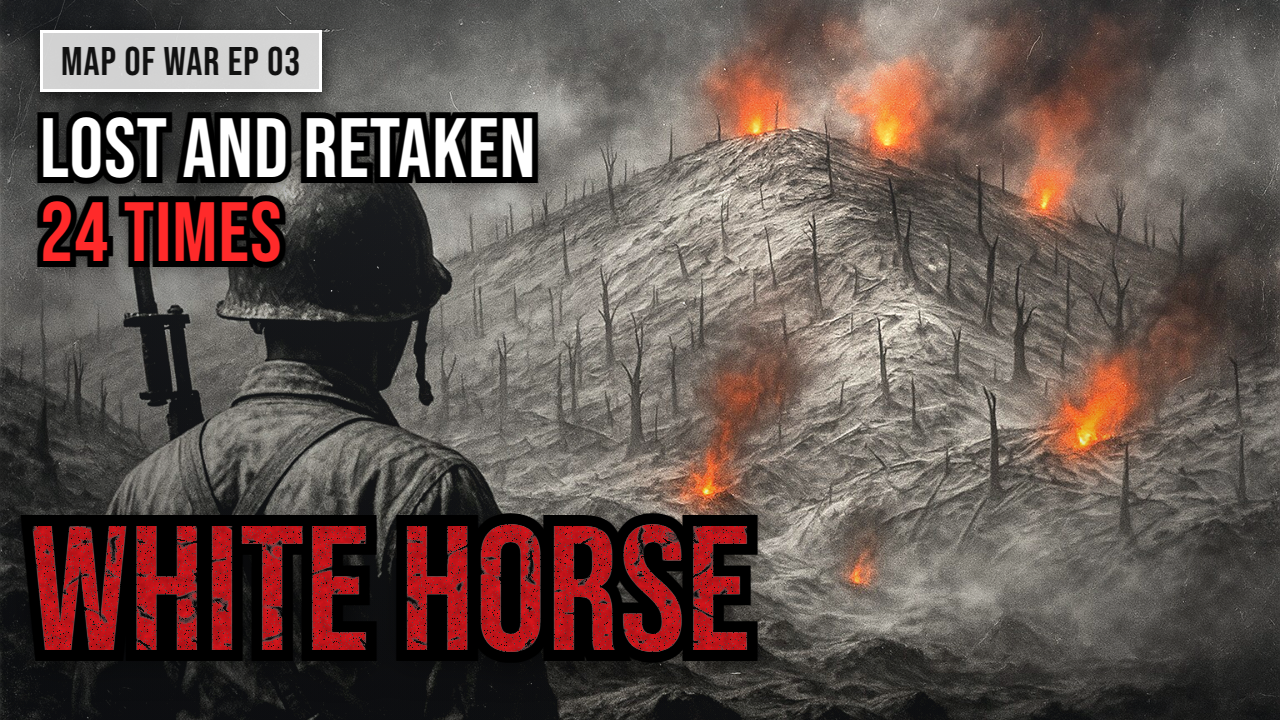
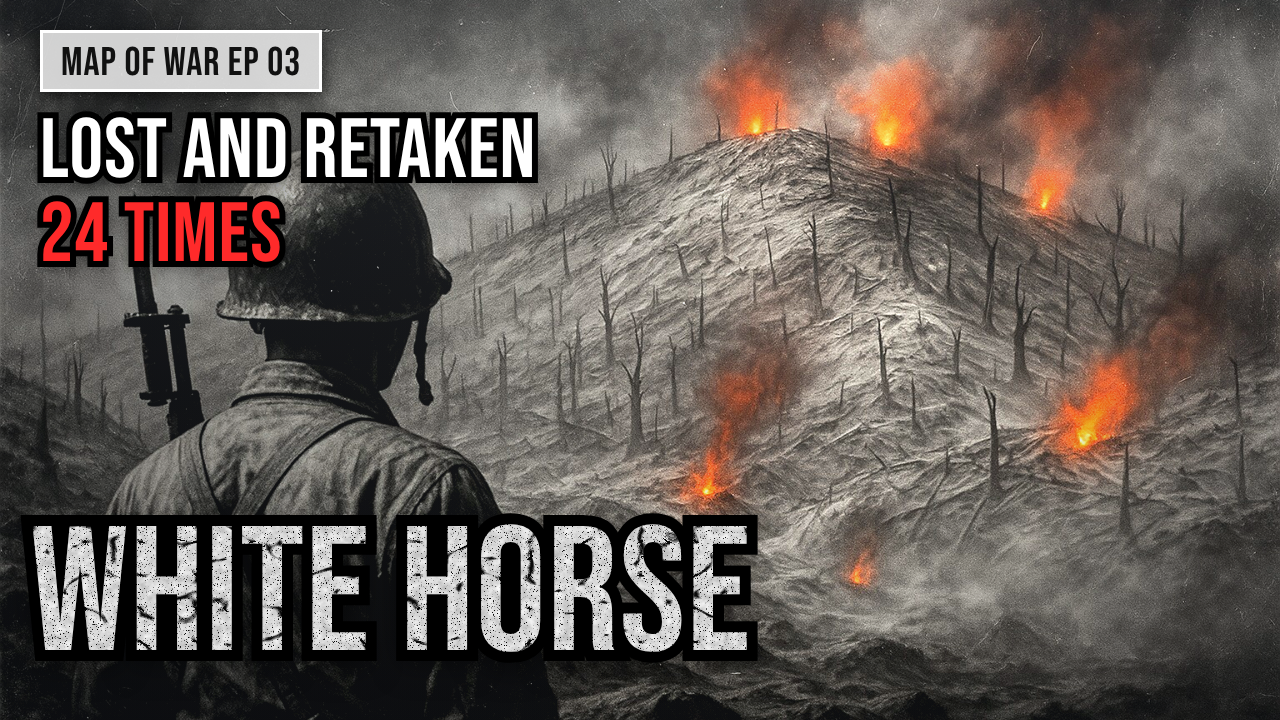
영문 썸네일: 빨강 키워드 → 옐로/스톤 (가독성 규칙 영문판에도 적용)
Claude-Session: https://claude.ai/code/session_01KBUYY64NPWkAFAfkw5mnrv

Changed region(s): [[0.3125, 0.7333, 0.5938, 0.9167], [0.0, 0.7333, 0.2812, 0.9167], [0.1562, 0.3056, 0.1875, 0.3361]]

diff --git a/remotion/Thumbnail.tsx b/remotion/Thumbnail.tsx
@@ -258,11 +258,11 @@ const SEG_COLOR = { w: "#ffffff", s: "#8fd6ff", r: "#ff2a2a" };
 type RefDef = { ep: string; mid: Seg[][]; key: string; keyStyle: "red" | "stone" | "yellow" | "ice"; pos?: string };
 /** 영문판(EN) — 압축 영문 공식: 'Battle of' 제외, 지명 + 숫자/핵심 단어만, Bebas Neue */
 const REF_EN: Record<string, RefDef> = {
-  yongmunsan: { ep: "01", mid: [[["1 REGIMENT", "s"], [" DESTROYED", "w"]], [["3 DIVISIONS", "r"]]], key: "YONGMUNSAN", keyStyle: "red" },
+  yongmunsan: { ep: "01", mid: [[["1 REGIMENT", "s"], [" DESTROYED", "w"]], [["3 DIVISIONS", "r"]]], key: "YONGMUNSAN", keyStyle: "yellow" },
   dabudong: { ep: "02", mid: [[["STAND OR DIE:", "r"]], [["55 DAYS OF HELL", "s"]]], key: "TABU-DONG", keyStyle: "stone" },
-  baengma: { ep: "03", mid: [[["LOST AND RETAKEN", "w"]], [["24 TIMES", "r"]]], key: "WHITE HORSE", keyStyle: "red" },
+  baengma: { ep: "03", mid: [[["LOST AND RETAKEN", "w"]], [["24 TIMES", "r"]]], key: "WHITE HORSE", keyStyle: "stone" },
   jipyeong: { ep: "04", mid: [[["360° SURROUNDED", "r"]], [["BY ", "w"], ["4 DIVISIONS", "s"]]], key: "CHIPYONG-NI", keyStyle: "yellow" },
-  chuncheon: { ep: "05", mid: [[["THE ONLY VICTORY", "w"]], [["ON DAY 1", "r"]]], key: "CHUNCHEON", keyStyle: "red" },
+  chuncheon: { ep: "05", mid: [[["THE ONLY VICTORY", "w"]], [["ON DAY 1", "r"]]], key: "CHUNCHEON", keyStyle: "yellow" },
   jangjin: { ep: "06", mid: [[["-40°F FREEZE:", "s"]], [["BREAKING ", "w"], ["120,000 ENEMY", "r"]]], key: "CHOSIN RESERVOIR", keyStyle: "ice" },
 };
 const REF: Record<string, RefDef> = {
